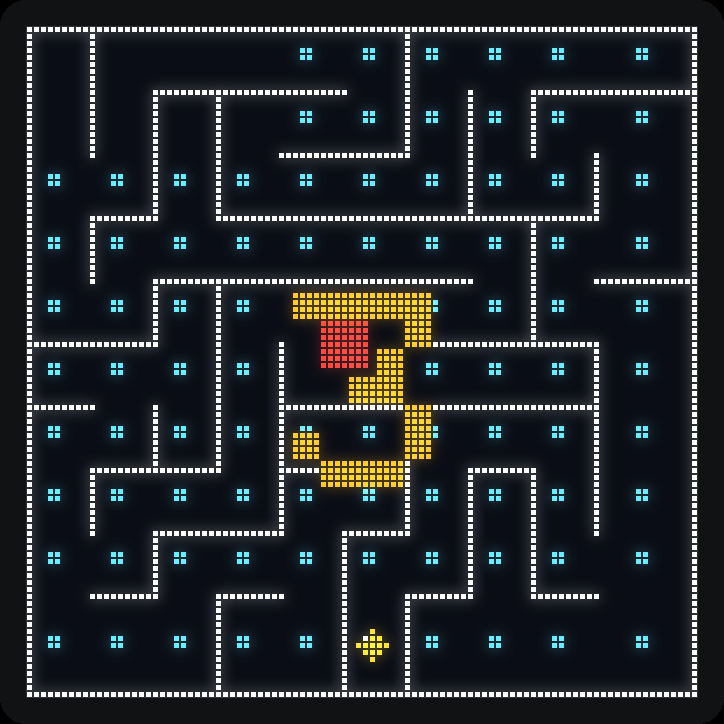
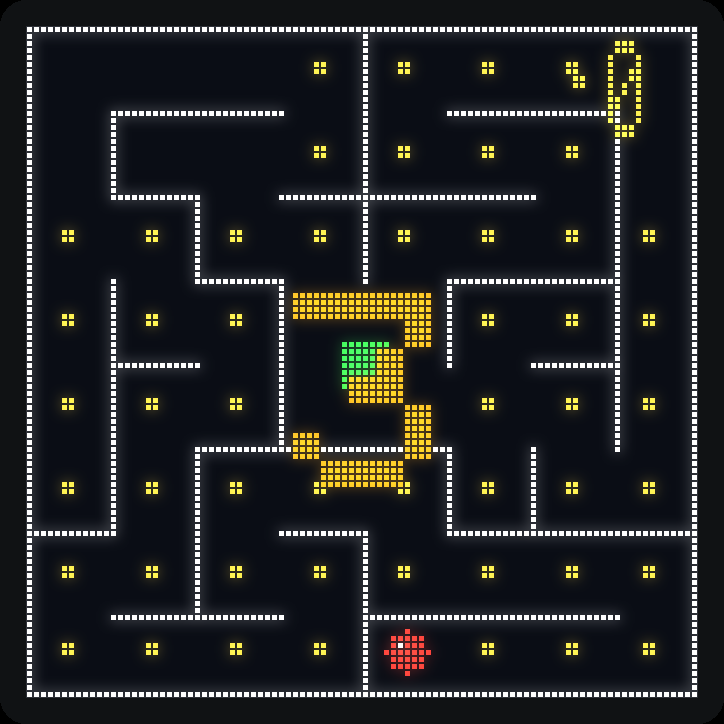
Playtest fixes: winnable levels, coins gold, green finish, live counter
- grids 6/8/10 with a bigger ball on levels 1-2, faster base speed and
  frame rate: every maze now fits its time limit with a wide margin
  (host test walks the shortest route at a third of top speed)
- countdown digits were erased 8 rows short, leaving an orange bar on
  the screen all game; the wipe now covers the glyph's real footprint
  (same off-by-a-row fix in the menu rows)
- coins are gold with a live top-right counter; coin count also shown
  on the TIME UP screen; finish room is green; start marker removed
  (it read as a second ball); menu shows plain LEVEL 1..3

Claude-Session: https://claude.ai/code/session_014SRHnpTFPuaHxq9CM5KyQS

diff --git a/game.c b/game.c
@@ -26,15 +26,15 @@
 /* Maze seed varies with difficulty and replay count, so every game is a
  * different (still fair, solvable) maze - and each difficulty looks distinct. */
 #define MAZE_SEED_BASE  0x00C0FFEEu
-#define FRAME_MS        30          /* per-frame delay, plus draw time */
+#define FRAME_MS        20          /* per-frame delay, plus draw time */
 
 static uint32_t g_play_count = 0;
 
 /* Difficulty table, indexed by (level-1). */
 static const Difficulty DIFFS[3] = {
-    { TIME_TENTHS_LVL1, SPEED_PCT_LVL1 },
-    { TIME_TENTHS_LVL2, SPEED_PCT_LVL2 },
-    { TIME_TENTHS_LVL3, SPEED_PCT_LVL3 },
+    { TIME_TENTHS_LVL1, SPEED_PCT_LVL1, BALL_R_BIG   },
+    { TIME_TENTHS_LVL2, SPEED_PCT_LVL2, BALL_R_BIG   },
+    { TIME_TENTHS_LVL3, SPEED_PCT_LVL3, BALL_R_SMALL },
 };
 
 static uint8_t difficulty = 1;      /* 1..3 */
@@ -87,21 +87,19 @@ typedef enum { ACT_START, ACT_SCORES } MenuAction;
  * selection moves, so scrolling the pot doesn't blink the whole screen. */
 static void menu_item(uint8_t idx, bool sel)
 {
-    char buf[20];
+    char buf[12];
     const char *txt;
     uint8_t y = (uint8_t)(34 + idx * 20);
 
     if (idx == 0) {
-        const Difficulty *d = &DIFFS[difficulty - 1];
-        sprintf(buf, "DIFF %u %2us x%u.%u", difficulty,
-                d->time_tenths / 10, d->speed_pct / 100,
-                (d->speed_pct % 100) / 10);
+        sprintf(buf, "LEVEL %u", difficulty);
         txt = buf;
     } else {
         txt = (idx == 1) ? "START" : "SCORES";
     }
 
-    oledC_DrawRectangle(0, y, SCREEN_W - 1, (uint8_t)(y + 15), COL_BG);
+    /* glyphs at scale 2 reach y+17, so the wipe band does too */
+    oledC_DrawRectangle(0, y, SCREEN_W - 1, (uint8_t)(y + 17), COL_BG);
     draw_centered(y, 1, 2, txt, sel ? COL_HILITE : COL_TEXT);
     if (sel)
         oledC_DrawString(2, y, 1, 2, (uint8_t *)">", COL_HILITE);
@@ -166,6 +164,17 @@ static void run_highscores(void)
     wait_any_key();
 }
 
+/* ===================== Coin counter (top-right) ======================== */
+static void draw_coins(int collected)
+{
+    char buf[8];
+    sprintf(buf, "%d", collected);
+    oledC_DrawRectangle(76, 0, 95, 18, COL_BG);
+    maze_redraw_region(76, 0, 95, 18);
+    oledC_DrawRectangle(78, 7, 79, 8, COL_DOT);        /* a little coin */
+    oledC_DrawString(83, 0, 1, 2, (uint8_t *)buf, COL_DOT);
+}
+
 /* ===================== Timer display =================================== */
 static void draw_timer(uint16_t tenths, int16_t *last)
 {
@@ -194,9 +203,10 @@ static void run_countdown(void)
         sprintf(d, "%d", i);
         draw_centered(34, 4, 4, d, COL_HILITE);
         DELAY_milliseconds(COUNTDOWN_STEP_MS);
-        oledC_DrawRectangle(36, 34, 59, 61, COL_BG);
-        maze_redraw_region(36, 34, 59, 61);
-        maze_dots_redraw_region(36, 34, 59, 61);
+        /* the scale-4 glyph really covers x36..59, y38..69 */
+        oledC_DrawRectangle(34, 36, 61, 71, COL_BG);
+        maze_redraw_region(34, 36, 61, 71);
+        maze_dots_redraw_region(34, 36, 61, 71);
         maze_draw_markers();            /* the finish room sits right there */
     }
 }
@@ -223,8 +233,9 @@ static PlayResult run_play(uint16_t *score_out)
     maze_render();
     maze_dots_render();
     maze_start_pixel(&sx, &sy);
-    ball_reset(sx, sy);
+    ball_reset(sx, sy, d->ball_r);
     ball_draw_at(sx, sy);
+    draw_coins(0);
 
     run_countdown();
 
@@ -257,7 +268,8 @@ static PlayResult run_play(uint16_t *score_out)
         /* Physics + render. */
         accel_read_tilt(&tx, &ty);
         ball_update(tx, ty, d->speed_pct);
-        (void)maze_dot_collect(ball_x(), ball_y(), BALL_RADIUS);
+        if (maze_dot_collect(ball_x(), ball_y(), ball_radius()))
+            draw_coins(maze_dots_total() - maze_dots_left());
         ball_render();
         draw_timer(remaining, &last_shown);
 
@@ -374,9 +386,12 @@ static void run_result(PlayResult r, uint16_t score)
 
     if (r == PLAY_LOSE) {
         ui_clear();
-        draw_centered(24, 2, 2, "TIME UP", COL_TEXT);
-        draw_centered(50, 1, 2, "Next time...", COL_TEXT);
-        draw_centered(82, 1, 1, "press a key", COL_DIM);
+        draw_centered(22, 2, 2, "TIME UP", COL_TEXT);
+        draw_centered(48, 1, 2, "Next time...", COL_TEXT);
+        sprintf(buf, "coins %d/%d", maze_dots_total() - maze_dots_left(),
+                maze_dots_total());
+        draw_centered(68, 1, 1, buf, COL_DIM);
+        draw_centered(84, 1, 1, "press a key", COL_DIM);
         wait_any_key();
         return;
     }
@@ -401,7 +416,7 @@ static void run_result(PlayResult r, uint16_t score)
     draw_centered(16, 1, 2, "YOUR SCORE", COL_TEXT);
     sprintf(buf, "%u.%u", score / 10, score % 10);
     draw_centered(38, 2, 2, buf, COL_HILITE);
-    sprintf(buf, "dots %d/%d", maze_dots_total() - maze_dots_left(),
+    sprintf(buf, "coins %d/%d", maze_dots_total() - maze_dots_left(),
             maze_dots_total());
     draw_centered(62, 1, 1, buf, COL_DIM);
     if (record)

diff --git a/game_config.h b/game_config.h
@@ -26,18 +26,21 @@
 #define MAZE_ROWS           12      /* max rows    (array bound) */
 
 /* Per-difficulty grid: bigger grid = smaller cells = denser, harder maze.
- * Levels 1 and 3 divide 96 evenly; level 2 leaves its last row/column a bit
+ * Levels 1 and 2 divide 96 evenly; level 3 leaves its last row/column a bit
  * wider (xline() clamps the outer edge to the panel). */
-#define GRID_LVL1           8       /* 12 px cells - easy   */
-#define GRID_LVL2           10      /* ~9 px cells - medium */
-#define GRID_LVL3           12      /* 8 px cells  - hard   */
+#define GRID_LVL1           6       /* 16 px cells - easy   */
+#define GRID_LVL2           8       /* 12 px cells - medium */
+#define GRID_LVL3           10      /* ~9 px cells - hard   */
 
 /* Layout (computed at run time in maze.c from the active grid): START is the
  * BOTTOM-center cell, FINISH is a 2x2 room in the CENTER. */
 
 /* ---- Ball -------------------------------------------------------------- */
-#define BALL_RADIUS         2       /* filled circle radius in pixels        */
-#define BALL_MAX_STEP       3       /* max pixels moved per axis per frame   */
+/* The radius comes from the difficulty (levels 1-2 use a bigger ball, the
+ * dense level-3 maze needs the small one to fit its corridors). */
+#define BALL_R_BIG          3
+#define BALL_R_SMALL        2
+#define BALL_MAX_STEP       4       /* max pixels moved per axis per frame   */
 
 /* ---- Tilt / physics ----------------------------------------------------
  * The ADXL345 reads ~256 counts per g; a flat board reads ~0 on X and Y.
@@ -46,14 +49,14 @@
  *
  *   velocity[1/16 px per frame] = tilt_counts * speed_pct / TILT_VEL_DEN
  *
- * With TILT_VEL_DEN = 400 a full sideways g (256) at 100% gives about
- * 4 px/frame (before the dead-zone), and BALL_MAX_STEP clamps it to 3.
+ * With TILT_VEL_DEN = 300 a full sideways g (256) at 100% gives about
+ * 5 px/frame (before the dead-zone), and BALL_MAX_STEP clamps it to 4.
  *
  * ACCEL_*_SIGN map the chip axes to screen axes (screen +x = right, +y =
  * down), matching how the Accel Click is mounted on this board. */
 #define TILT_DEADZONE       12      /* ignore small tilts (counts)           */
 #define SUBPIXEL            16       /* fractional position resolution        */
-#define TILT_VEL_DEN        400      /* velocity scaling denominator          */
+#define TILT_VEL_DEN        300      /* velocity scaling denominator          */
 #define ACCEL_X_SIGN        (-1)     /* screen vx = ACCEL_X_SIGN * accel_x    */
 #define ACCEL_Y_SIGN        (+1)     /* screen vy = ACCEL_Y_SIGN * accel_y    */
 
@@ -84,6 +87,7 @@
  * brief defines. */
 #define DOT_KEEPOUT_X       34      /* no dots under the timer pad...        */
 #define DOT_KEEPOUT_Y       20      /* ...(cell centers left of/above this)  */
+#define COIN_KEEPOUT_X      78      /* ...nor under the coin counter (right) */
 
 /* ---- Countdown --------------------------------------------------------- */
 #define COUNTDOWN_STEP_MS   650     /* per digit of the 3-2-1 countdown      */
@@ -92,17 +96,17 @@
 #define COL_BG              0x0000  /* screen background                     */
 #define COL_WALL            0xFFFF  /* maze walls                            */
 #define COL_BALL            0xF800  /* the ball                              */
-#define COL_START           0x07E0  /* start marker                          */
-#define COL_FINISH          0xFFE0  /* finish marker                         */
+#define COL_FINISH          0x07E0  /* finish room (reads green = "go")      */
 #define COL_TEXT            0xFFFF  /* regular text                          */
 #define COL_DIM             0x07FF  /* secondary text (timer, hints)         */
 #define COL_HILITE          0xFC00  /* menu selection / accents              */
-#define COL_DOT             0x07FF  /* collectible dots                      */
+#define COL_DOT             0xFFE0  /* collectible coins (reads gold)        */
 
 /* Difficulty record. */
 typedef struct {
     uint16_t time_tenths;   /* allowed time, tenths of a second */
     uint8_t  speed_pct;     /* ball speed factor, percent       */
+    uint8_t  ball_r;        /* ball radius in pixels            */
 } Difficulty;
 
 #endif /* GAME_CONFIG_H */

diff --git a/ball.c b/ball.c
@@ -10,6 +10,7 @@
 static int cx, cy;          /* current center  */
 static int prev_x, prev_y;  /* last drawn center */
 static int subx, suby;      /* 1/SUBPIXEL fractional accumulators */
+static int g_r = BALL_R_SMALL;  /* radius, set per difficulty in ball_reset */
 
 static int deadzone(int v)
 {
@@ -23,12 +24,15 @@ static int clampi(int v, int lo, int hi)
     return v < lo ? lo : (v > hi ? hi : v);
 }
 
-void ball_reset(int x, int y)
+void ball_reset(int x, int y, int radius)
 {
     cx = prev_x = x;
     cy = prev_y = y;
     subx = suby = 0;
+    g_r = radius;
 }
+
+int ball_radius(void) { return g_r; }
 
 /* Step up to |n| pixels along x (dir = +/-1), stopping at a wall. */
 static void move_x(int n)
@@ -36,7 +40,7 @@ static void move_x(int n)
     int dir = (n > 0) ? 1 : -1;
     int steps = (n > 0) ? n : -n;
     while (steps-- > 0) {
-        if (maze_ball_collides(cx + dir, cy, BALL_RADIUS)) { subx = 0; break; }
+        if (maze_ball_collides(cx + dir, cy, g_r)) { subx = 0; break; }
         cx += dir;
     }
 }
@@ -46,7 +50,7 @@ static void move_y(int n)
     int dir = (n > 0) ? 1 : -1;
     int steps = (n > 0) ? n : -n;
     while (steps-- > 0) {
-        if (maze_ball_collides(cx, cy + dir, BALL_RADIUS)) { suby = 0; break; }
+        if (maze_ball_collides(cx, cy + dir, g_r)) { suby = 0; break; }
         cy += dir;
     }
 }
@@ -78,7 +82,7 @@ void ball_update(int tx, int ty, uint8_t speed_pct)
 /* The ball with a little glint pixel so it reads as a sphere, not a blob. */
 void ball_draw_at(int x, int y)
 {
-    oledC_DrawCircle((uint8_t)x, (uint8_t)y, BALL_RADIUS, COL_BALL);
+    oledC_DrawCircle((uint8_t)x, (uint8_t)y, (uint8_t)g_r, COL_BALL);
     oledC_DrawPoint((uint8_t)(x - 1), (uint8_t)(y - 1), COL_TEXT);
 }
 
@@ -89,11 +93,11 @@ void ball_render(void)
 
     /* Erase the ball at its old position by repainting it in the background
      * color, then draw it at the new one. */
-    oledC_DrawCircle((uint8_t)prev_x, (uint8_t)prev_y, BALL_RADIUS, COL_BG);
+    oledC_DrawCircle((uint8_t)prev_x, (uint8_t)prev_y, (uint8_t)g_r, COL_BG);
     /* Restore markers and any dot the erase may have clipped. */
     maze_draw_markers();
-    maze_dots_redraw_region(prev_x - BALL_RADIUS - 1, prev_y - BALL_RADIUS - 1,
-                            prev_x + BALL_RADIUS + 1, prev_y + BALL_RADIUS + 1);
+    maze_dots_redraw_region(prev_x - g_r - 1, prev_y - g_r - 1,
+                            prev_x + g_r + 1, prev_y + g_r + 1);
     ball_draw_at(cx, cy);
 
     prev_x = cx;

diff --git a/maze.c b/maze.c
@@ -217,7 +217,8 @@ static void place_dots(void)
                          r >= cr0() && r <= cr1());
             if (in_finish) continue;                           /* finish  */
             cell_center(c, r, &x, &y);
-            if (x < DOT_KEEPOUT_X && y < DOT_KEEPOUT_Y) continue; /* timer */
+            if (y < DOT_KEEPOUT_Y &&
+                (x < DOT_KEEPOUT_X || x > COIN_KEEPOUT_X)) continue; /* HUD */
             dot_alive[r][c] = 1;
             dots_left++; dots_total++;
         }
@@ -319,12 +320,8 @@ void maze_generate(uint32_t seed, int cols, int rows)
 /* ---- Rendering --------------------------------------------------------- */
 void maze_draw_markers(void)
 {
-    int sx, sy, fx, fy;
-    maze_start_pixel(&sx, &sy);
+    int fx, fy;
     maze_finish_pixel(&fx, &fy);
-    /* small square so it can't be mistaken for the (round) ball */
-    oledC_DrawRectangle((uint8_t)(sx - 1), (uint8_t)(sy - 1),
-                        (uint8_t)(sx + 1), (uint8_t)(sy + 1), COL_START);
     oledC_DrawRectangle((uint8_t)(fx - 3), (uint8_t)(fy - 3),
                         (uint8_t)(fx + 3), (uint8_t)(fy + 3), COL_FINISH);
 }

diff --git a/ball.h b/ball.h
@@ -11,8 +11,12 @@
 
 #include <stdint.h>
 
-/* Place the ball at pixel (x,y) and clear its motion state. */
-void ball_reset(int x, int y);
+/* Place the ball at pixel (x,y) with the given radius and clear its motion
+ * state. */
+void ball_reset(int x, int y, int radius);
+
+/* Radius the ball was reset with. */
+int ball_radius(void);
 
 /* Advance one frame: tilt counts tx,ty and the difficulty speed factor (%).
  * Applies dead-zone, fixed-point velocity and per-axis wall collision. */

diff --git a/README.md b/README.md
@@ -3,9 +3,9 @@
 A ball-in-maze game for the **PIC24FJ256GA705 Curiosity** board. Tilt the board
 to roll a ball (read with the **ADXL345** accelerometer) from START to FINISH of
 a 96x96 maze on the **OLED**, within a time limit set by the chosen difficulty.
-Dots are scattered through the corridors to collect on the way, a 3-2-1
-countdown opens every round, and beating the best time earns a NEW RECORD
-screen.
+Gold coins are scattered through the corridors to collect on the way (with a
+live counter), a 3-2-1 countdown opens every round, and beating the best time
+earns a NEW RECORD screen.
 
 Built on the course **accelerometer-lab template** (System / oledDriver /
 spiDriver / i2cDriver), as required, so it compiles unchanged with XC16.
@@ -103,9 +103,10 @@ font:
   `run_name_entry()`, `scoreboard.c`.
 
 Beyond the brief: fresh maze every game (the brief suggests one fixed maze),
-per-difficulty maze density, collectible corridor dots (score stays the game
-time, as specified - the win screen just reports the dot count), a 3-2-1
-countdown, a win animation, and NEW RECORD detection.
+per-difficulty maze density and ball size, collectible corridor coins with a
+live counter (score stays the game time, as specified - the end screens just
+report the coin count), a 3-2-1 countdown, a win animation, and NEW RECORD
+detection.
 
 ## Maze generation
 
@@ -116,8 +117,8 @@ logical grid (8x8, 10x10 or 12x12 cells depending on difficulty; the seed
 changes every game). Because a single backtracker run can produce a short
 solution route, generation tries several seed variants and keeps the maze with
 the longest START-to-FINISH route that still has at least 5 dead ends, per the
-project brief. START is the bottom-center cell (green marker); FINISH is a
-2x2 room in the center.
+project brief. The ball starts at the bottom-center cell; FINISH is a 2x2
+room in the center, filled green.
 
 ## Tuning
 
